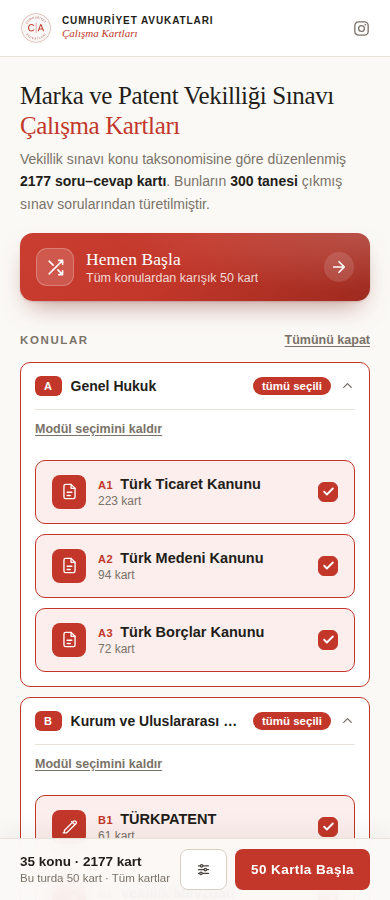
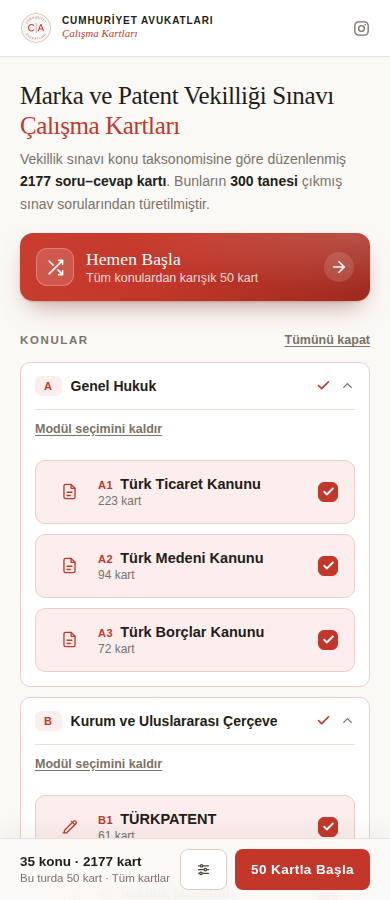
Konu seçim ekranındaki kırmızı yoğunluğu azaltıldı
Beş modül seçiliyken ekranda beş dolgulu "tümü seçili" rozeti, beş dolgulu
harf kutusu ve beş kırmızı çerçeve birden görünüyordu; güçlü kırmızı asıl
eyleme ait olmalıyken sayfaya yayılmıştı.

- Dolgulu "tümü seçili" rozeti kaldırıldı. Seçim durumu artık zaten var
  olan meta satırına yazılıyor ("tümü seçili · 389 kart" / "2/3 konu
  seçili · 389 kart") ve yanında küçük bir onay imi duruyor.
- Modül harf kutusu (A–E) dolgulu kırmızıdan yumuşak kırmızıya döndü.
- Seçili modül ve konu kartı çerçevesi için yumuşak --red-line eklendi.
- Konu kartı seçilince ikonu dolgulu kırmızıya dönmüyor; onay kutusu
  durumu zaten gösteriyor.
- Modül başlığı ve konu kartı vurgusu kırmızı yerine nötr --wash tonuna
  geçti.

Böylece güçlü kırmızı yalnızca "Hemen Başla" ile alt çubuktaki başlat
düğmesinde kalıyor.

Claude-Session: https://claude.ai/code/session_01RoJgY4kRz6ELFpPqZvmk31

diff --git a/assets/css/kartlar.css b/assets/css/kartlar.css
@@ -148,7 +148,7 @@ main.container { padding-top: 34px; padding-bottom: 150px; }
   transition: border-color .13s ease;
 }
 .modul.acik { border-color: var(--line-strong); }
-.modul.secili { border-color: var(--red); }
+.modul.secili { border-color: var(--red-line); }
 
 .modul-bas {
   width: 100%;
@@ -164,12 +164,12 @@ main.container { padding-top: 34px; padding-bottom: 150px; }
   color: var(--ink);
 }
 @media (hover: hover) {
-  .modul-bas:hover { background: var(--red-soft); }
+  .modul-bas:hover { background: var(--wash); }
 }
 .modul-kod {
   flex-shrink: 0;
-  background: var(--red);
-  color: var(--white);
+  background: var(--red-soft);
+  color: var(--red);
   border-radius: 6px;
   padding: 4px 9px;
   font-size: 11px;
@@ -191,16 +191,14 @@ main.container { padding-top: 34px; padding-bottom: 150px; }
   color: var(--muted);
   white-space: nowrap;
 }
-.modul-rozet {
+/* seçim göstergesi: dolgulu rozet yerine küçük bir onay imi */
+.modul-tik {
   flex-shrink: 0;
-  background: var(--red);
-  color: var(--white);
-  border-radius: 99px;
-  padding: 3px 9px;
-  font-size: 11.5px;
-  font-weight: 700;
-  white-space: nowrap;
+  display: inline-flex;
+  align-items: center;
+  color: var(--red);
 }
+.modul-tik svg { display: block; }
 .modul-ok {
   flex-shrink: 0;
   color: var(--muted);
@@ -355,8 +353,8 @@ main.container { padding-top: 34px; padding-bottom: 150px; }
   gap: 12px;
   transition: border-color .13s ease, background .13s ease;
 }
-.deste-card:hover { border-color: var(--red); }
-.deste-card.selected { border-color: var(--red); background: var(--red-soft); }
+.deste-card:hover { border-color: var(--line-strong); }
+.deste-card.selected { border-color: var(--red-line); background: var(--red-soft); }
 .deste-card:disabled { opacity: .5; cursor: not-allowed; border-color: var(--line); background: var(--white); }
 
 .deste-icon {
@@ -367,7 +365,6 @@ main.container { padding-top: 34px; padding-bottom: 150px; }
   background: var(--red-soft);
   color: var(--red);
 }
-.deste-card.selected .deste-icon { background: var(--red); color: var(--white); }
 .deste-icon svg { display: block; }
 
 .deste-body { flex: 1; min-width: 0; }

diff --git a/assets/js/kartlar.js b/assets/js/kartlar.js
@@ -115,6 +115,7 @@
       var bolum = document.createElement('section');
       bolum.className = 'modul';
       bolum.dataset.modul = mo.kod;
+      bolum.dataset.kart = kartSayisi;
 
       var bas = document.createElement('button');
       bas.type = 'button';
@@ -123,7 +124,9 @@
       bas.innerHTML =
         '<span class="modul-kod">' + mo.kod + '</span>' +
         '<span class="modul-ad">' + mo.ad + '</span>' +
-        '<span class="modul-rozet hidden"></span>' +
+        '<span class="modul-tik hidden"><svg width="15" height="15" viewBox="0 0 24 24" fill="none" ' +
+        'stroke="currentColor" stroke-width="2.6" stroke-linecap="round" stroke-linejoin="round">' +
+        '<path d="M20 6L9 17l-5-5"/></svg></span>' +
         '<span class="modul-say">' + konular.length + ' konu · ' + kartSayisi + ' kart</span>' +
         '<svg class="modul-ok" width="15" height="15" viewBox="0 0 24 24" fill="none" stroke="currentColor" ' +
         'stroke-width="2.2" stroke-linecap="round" stroke-linejoin="round"><path d="M6 9l6 6 6-6"/></svg>';
@@ -296,9 +299,12 @@
         .filter(function (d) { return d.modulKod === kod && d.kartlar.length; })
         .map(function (d) { return d.id; });
       var n = idler.filter(function (id) { return secili.indexOf(id) !== -1; }).length;
-      var rozet = bolum.querySelector('.modul-rozet');
-      rozet.textContent = (n === idler.length) ? 'tümü seçili' : n + '/' + idler.length + ' seçili';
-      rozet.classList.toggle('hidden', n === 0);
+      var kartSayisi = bolum.dataset.kart;
+      bolum.querySelector('.modul-tik').classList.toggle('hidden', n === 0);
+      bolum.querySelector('.modul-say').textContent =
+        (n === 0 ? idler.length + ' konu'
+         : n === idler.length ? 'tümü seçili'
+         : n + '/' + idler.length + ' konu seçili') + ' · ' + kartSayisi + ' kart';
       bolum.classList.toggle('secili', n > 0);
       var hepsiBtn = bolum.querySelector('.modul-hepsi');
       if (hepsiBtn) hepsiBtn.textContent = (n === idler.length) ? 'Modül seçimini kaldır' : 'Modülün tümünü seç';

diff --git a/assets/css/style.css b/assets/css/style.css
@@ -8,6 +8,8 @@
   --red: #C2372A;
   --red-dark: #A32C20;
   --red-soft: #FBEEEC;
+  --red-line: #EDCEC8;
+  --wash: #F6F2ED;
   --ink: #221D18;
   --ink-soft: #4A443D;
   --muted: #7A7268;
